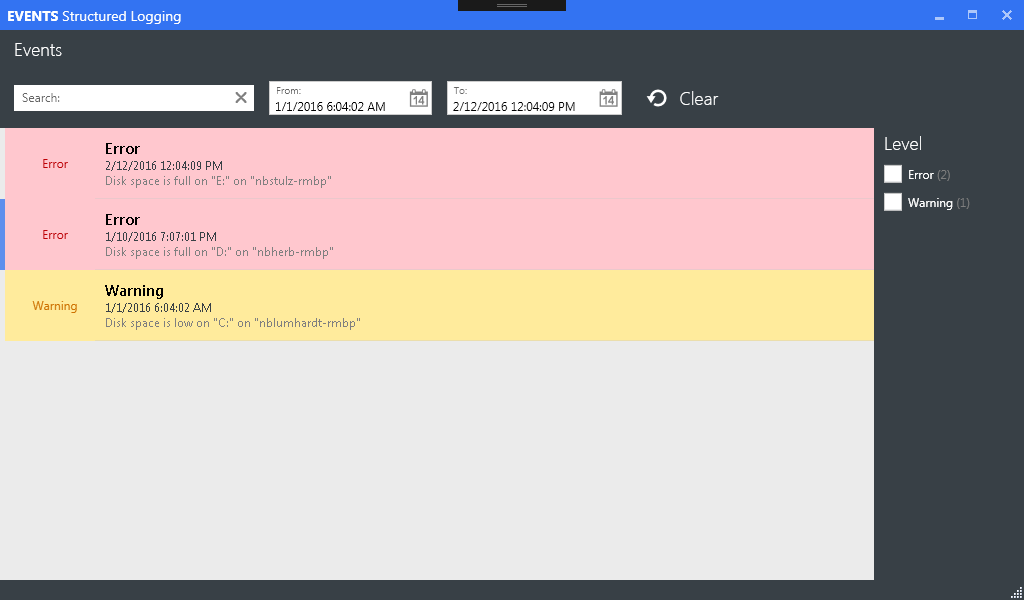
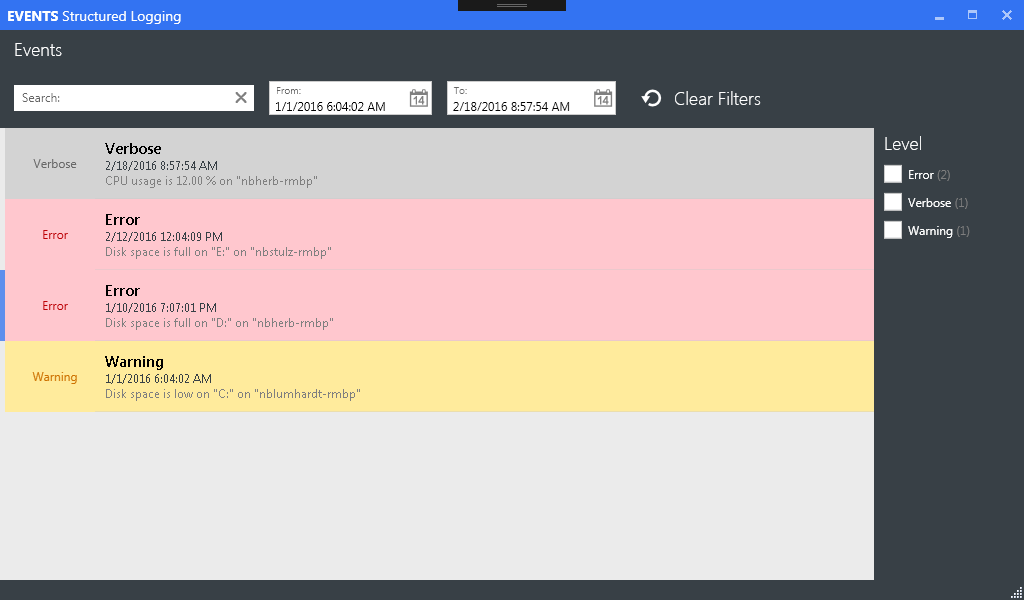
Organized class modifiers to be private instead of internal.

diff --git a/StructuredLogging.Desktop.DeviceModule/Views/EventsView.xaml b/StructuredLogging.Desktop.DeviceModule/Views/EventsView.xaml
@@ -162,7 +162,7 @@
                                FontSize="18"
                                Foreground="White"
                                VerticalAlignment="Center"
-                               Text="Clear" />
+                               Text="Clear Filters" />
                 </StackPanel>
             </Grid>
 

diff --git a/StructuredLogging.TestApp/Runner.cs b/StructuredLogging.TestApp/Runner.cs
@@ -8,7 +8,7 @@ using StructuredLogging.Services.Contracts;
 
 namespace StructuredLogging.TestApp
 {
-    internal sealed class Runner
+    sealed class Runner
     {
         private readonly IKernel _kernel;
 
@@ -44,12 +44,25 @@ namespace StructuredLogging.TestApp
                 }
             };
 
+            var verboseRawEvent = new RawEvent
+            {
+                Timestamp = new DateTime(2016, 2, 18, 08, 57, 54).ToString("O"),
+                Level = "Verbose",
+                MessageTemplate = "CPU usage is {CpuPercentage:P2} on {MachineName}",
+                Properties = new Dictionary<string, object>
+                {
+                    { "CpuPercentage", 0.12 },
+                    { "MachineName", "nbherb-rmbp" }
+                }
+            };
+
             var rawEvents = new RawEvents
             {
                 Events = new[]
                 {
                     warningRawEvent,
                     errorRawEvent,
+                    verboseRawEvent,
                     new RawEvent
                     {
                         Timestamp = new DateTime(2016, 2, 12, 12, 4, 9).ToString("O"),
@@ -75,10 +88,11 @@ namespace StructuredLogging.TestApp
             indexer.Index(rawEvents);
             
             var searcher = _kernel.Get<ISearcherService>();
-            var request = new SearchRequest("disk", new[]
+            var request = new SearchRequest("cpu", new[]
                 {
                     new QueryFilterProperty(DataContracts.Constants.Facet.Level, "Warning"), 
-                    //new QueryFilterProperty(DataContracts.Constants.Facet.Level, "Error")
+                    new QueryFilterProperty(DataContracts.Constants.Facet.Level, "Error"),
+                    new QueryFilterProperty(DataContracts.Constants.Facet.Level, "Verbose")
                 });
 
             var results = searcher.Search(request);

diff --git a/StructuredLogging.WebApi/Controllers/SearcherController.cs b/StructuredLogging.WebApi/Controllers/SearcherController.cs
@@ -1,5 +1,6 @@
 using System;
 using System.Web.Http;
+using StructuredLogging.DataContracts;
 using Swashbuckle.Swagger.Annotations;
 using StructuredLogging.Services.Contracts;
 
@@ -17,13 +18,30 @@ namespace StructuredLogging.WebApi.Controllers
         }
         
         // GET api/search/test
+        [SwaggerOperation("GetByRequest")]
+        [HttpPost]
+        public IHttpActionResult Get([FromBody] SearchRequest request)
+        {
+            try
+            {
+                var results = _service.Search(request);
+
+                return Ok(results);
+            }
+            catch (Exception ex)
+            {
+                return InternalServerError(ex);
+            }
+        }
+
+        // GET api/search/test
         [SwaggerOperation("GetByPhrase")]
         [HttpGet]
         public IHttpActionResult Get(string phrase)
         {
             try
             {
-                var results = _service.Search(phrase);
+                var results = _service.Search(new SearchRequest(phrase));
 
                 return Ok(results);
             }

diff --git a/StructuredLogging/Core/Queries/Executor/ExpressionExecutor.cs b/StructuredLogging/Core/Queries/Executor/ExpressionExecutor.cs
@@ -1,5 +1,4 @@
-
-using System;
+using System;
 using Superpower;
 using StructuredLogging.Core.Queries.Parser;
 using StructuredLogging.Core.Queries.Tokenization;
@@ -19,17 +18,16 @@ namespace StructuredLogging.Core.Queries.Executor
                 var compiled = expr.Compile();
 
                 var result = compiled();
-                Console.WriteLine(result);
 
                 return result;
             }
-            catch (ParseException ex)
+            catch (ParseException)
             {
-                Console.Error.WriteLine(ex.Message);
+                /* TODO */
             }
-            catch (Exception ex)
+            catch (Exception)
             {
-                Console.Error.WriteLine(ex);
+                /* TODO */
             }
 
             return null;

diff --git a/StructuredLogging/Extensions/StringExtensions.cs b/StructuredLogging/Extensions/StringExtensions.cs
@@ -5,14 +5,14 @@ using System.Web.UI;
 
 namespace StructuredLogging.Extensions
 {
-    internal static class StringExtensions
+    static class StringExtensions
     {
-        internal static string FormatWith(this string format, object source)
+        public static string FormatWith(this string format, object source)
         {
             return FormatWith(format, null, source);
         }
 
-        internal static string FormatWith(this string format, IFormatProvider provider, object source)
+        public static string FormatWith(this string format, IFormatProvider provider, object source)
         {
             if (format == null)
             {

diff --git a/StructuredLogging.Desktop.Utilities/Converters/LevelToBackgroundColorConverter.cs b/StructuredLogging.Desktop.Utilities/Converters/LevelToBackgroundColorConverter.cs
@@ -5,12 +5,13 @@ using System.Windows.Media;
 
 namespace StructuredLogging.Desktop.Utilities.Converters
 {
+    [ValueConversion(typeof(string), typeof(SolidColorBrush))]
     public sealed class LevelToBackgroundColorConverter
         : IValueConverter
     {
         public object Convert(object value, Type targetType, object parameter, CultureInfo culture)
         {
-            SolidColorBrush colorBrush = new SolidColorBrush(Colors.Black);
+            SolidColorBrush colorBrush = new SolidColorBrush(Colors.LightGray);
 
             if (value.Equals("Warning"))
             {

diff --git a/StructuredLogging/Constants.cs b/StructuredLogging/Constants.cs
@@ -21,7 +21,7 @@ namespace StructuredLogging
         {
             return new Dictionary<string, FacetSpec>
             {
-                { Facet.Level, new FacetSpec { MinHitCount = 1, MaxCount = 25, OrderBy = FacetSpec.FacetSortSpec.OrderHitsDesc} },
+                { Facet.Level, new FacetSpec { MinHitCount = 1, MaxCount = 25, ExpandSelection = true, OrderBy = FacetSpec.FacetSortSpec.OrderHitsDesc} },
                 //{ Facet.PropertyField, new FacetSpec { MinHitCount = 1, MaxCount = 25, OrderBy = FacetSpec.FacetSortSpec.OrderHitsDesc } }
             };
         }

diff --git a/StructuredLogging.Desktop.Utilities/Converters/LevelToColorConverter.cs b/StructuredLogging.Desktop.Utilities/Converters/LevelToColorConverter.cs
@@ -5,12 +5,13 @@ using System.Windows.Media;
 
 namespace StructuredLogging.Desktop.Utilities.Converters
 {
+    [ValueConversion(typeof(string), typeof(SolidColorBrush))]
     public sealed class LevelToColorConverter
         : IValueConverter
     {
         public object Convert(object value, Type targetType, object parameter, CultureInfo culture)
         {
-            SolidColorBrush colorBrush = new SolidColorBrush(Colors.Black);
+            SolidColorBrush colorBrush = new SolidColorBrush(Colors.DimGray);
 
             if (value.Equals("Warning"))
             {

diff --git a/StructuredLogging/Services/QueryService.cs b/StructuredLogging/Services/QueryService.cs
@@ -33,14 +33,6 @@ namespace StructuredLogging.Services
             var result = _searcher.Search(new SearchRequest(string.Empty));
 
             return result;
-
-            /*foreach (var rawEvent in rawEvents)
-            {
-                var message = _formater.FormatEvent(rawEvent);
-                var timeStamp = DateTime.Parse(rawEvent.Timestamp);
-
-                yield return new SearchResult(rawEvent.Level, timeStamp, message);
-            }*/
         }
 
         public IEnumerable<SearchResultItem> QueryBy(Query query)

diff --git a/StructuredLogging/Extensions/TypeExtensions.cs b/StructuredLogging/Extensions/TypeExtensions.cs
@@ -5,12 +5,11 @@ using System.Reflection;
 
 namespace StructuredLogging.Extensions
 {
-    internal static class TypeExtensions
+    static class TypeExtensions
     {
-        internal static IEnumerable<PropertyInfo> GetPropertiesRecursive(this Type type)
+        public static IEnumerable<PropertyInfo> GetPropertiesRecursive(this Type type)
         {
             var seenNames = new HashSet<string>();
-
             var currentTypeInfo = type.GetTypeInfo();
 
             while (currentTypeInfo.AsType() != typeof(object))

diff --git a/StructuredLogging/Services/SearcherService.cs b/StructuredLogging/Services/SearcherService.cs
@@ -14,12 +14,6 @@ namespace StructuredLogging.Services
             _searcher = searcher;
         }
 
-        public SearchResult Search(string phrase)
-        {
-            var result = _searcher.Search(new SearchRequest(phrase));
-            return result;
-        }
-
         public SearchResult Search(SearchRequest request)
         {
             var result = _searcher.Search(request);

diff --git a/StructuredLogging.Desktop.Utilities/ViewModels/ViewModelBase.cs b/StructuredLogging.Desktop.Utilities/ViewModels/ViewModelBase.cs
@@ -6,10 +6,9 @@ namespace StructuredLogging.Desktop.Utilities.ViewModels
 {
     public abstract class ViewModelBase
         : INotifyPropertyChanged
-        , INavigationAware
+            , INavigationAware
     {
         private bool _isBusy;
-
         private string _title;
 
         public bool IsBusy { get { return _isBusy; } set { SetPropertyChanged(ref _isBusy, value); } }
